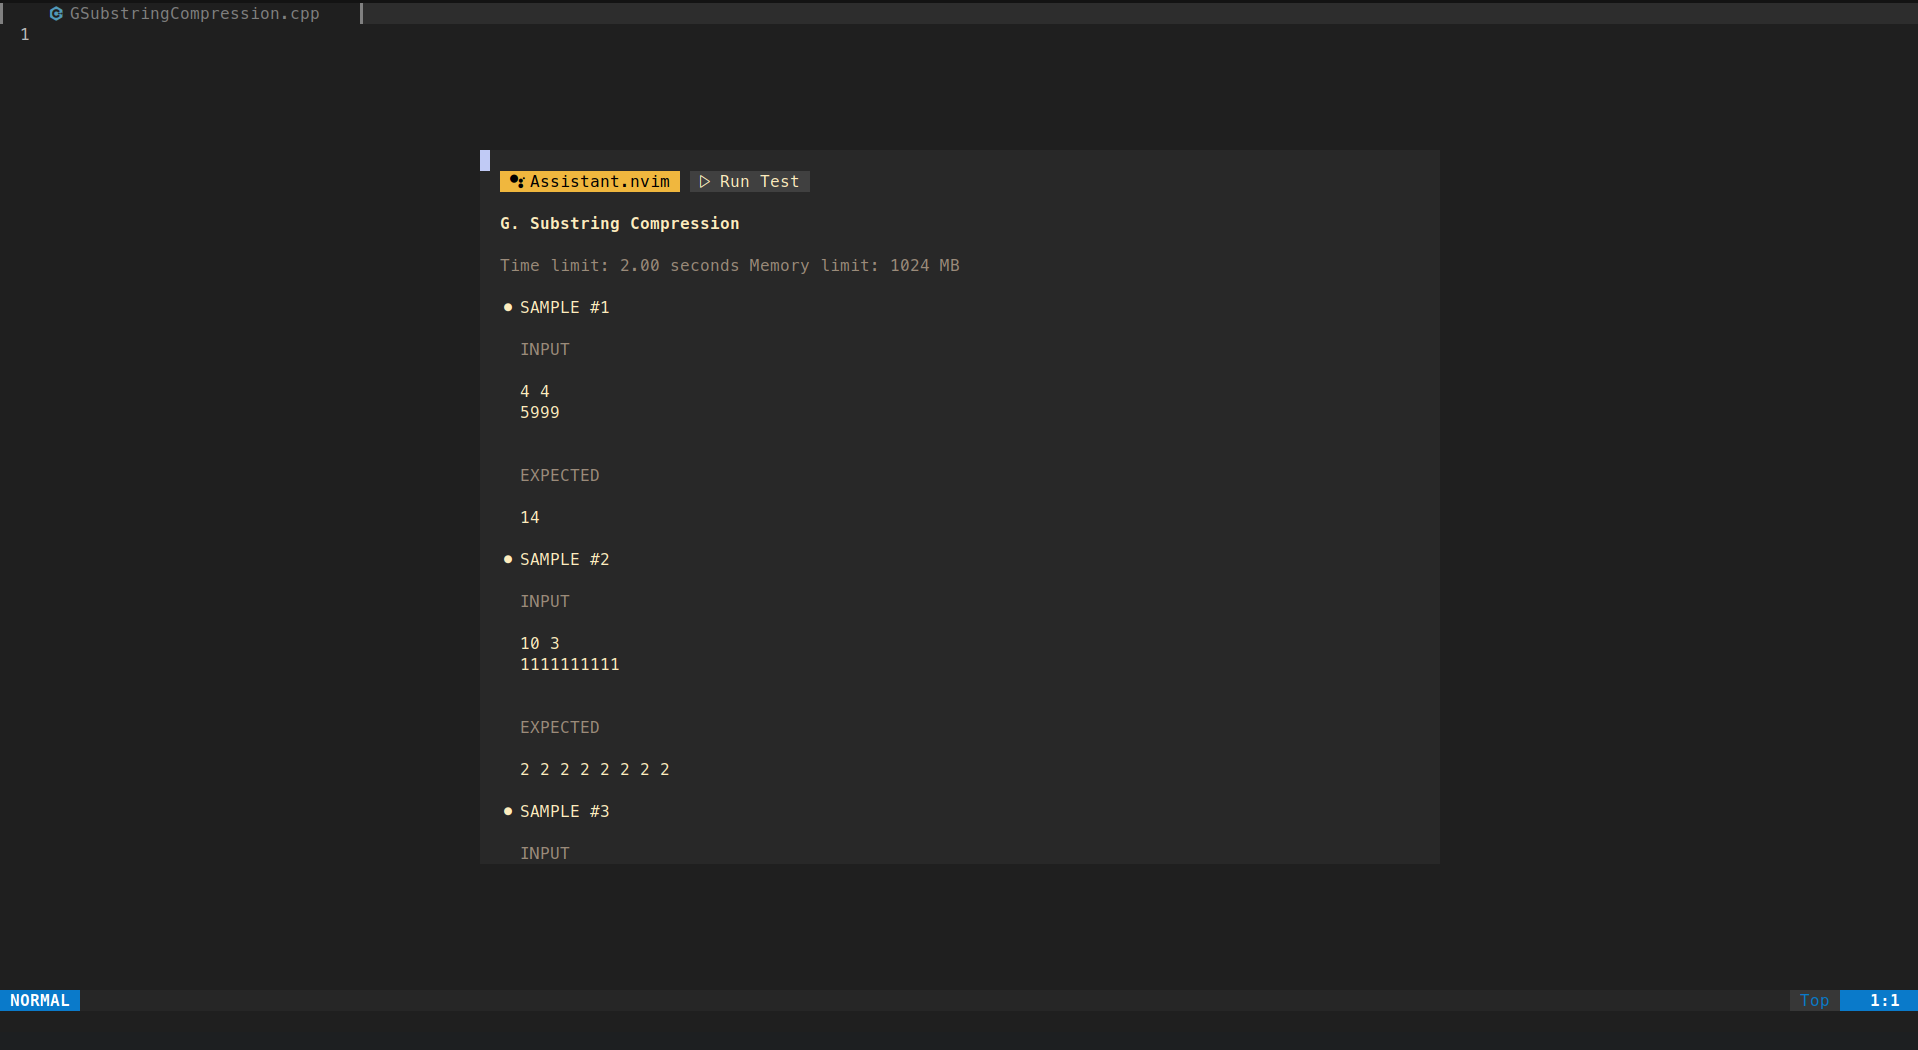
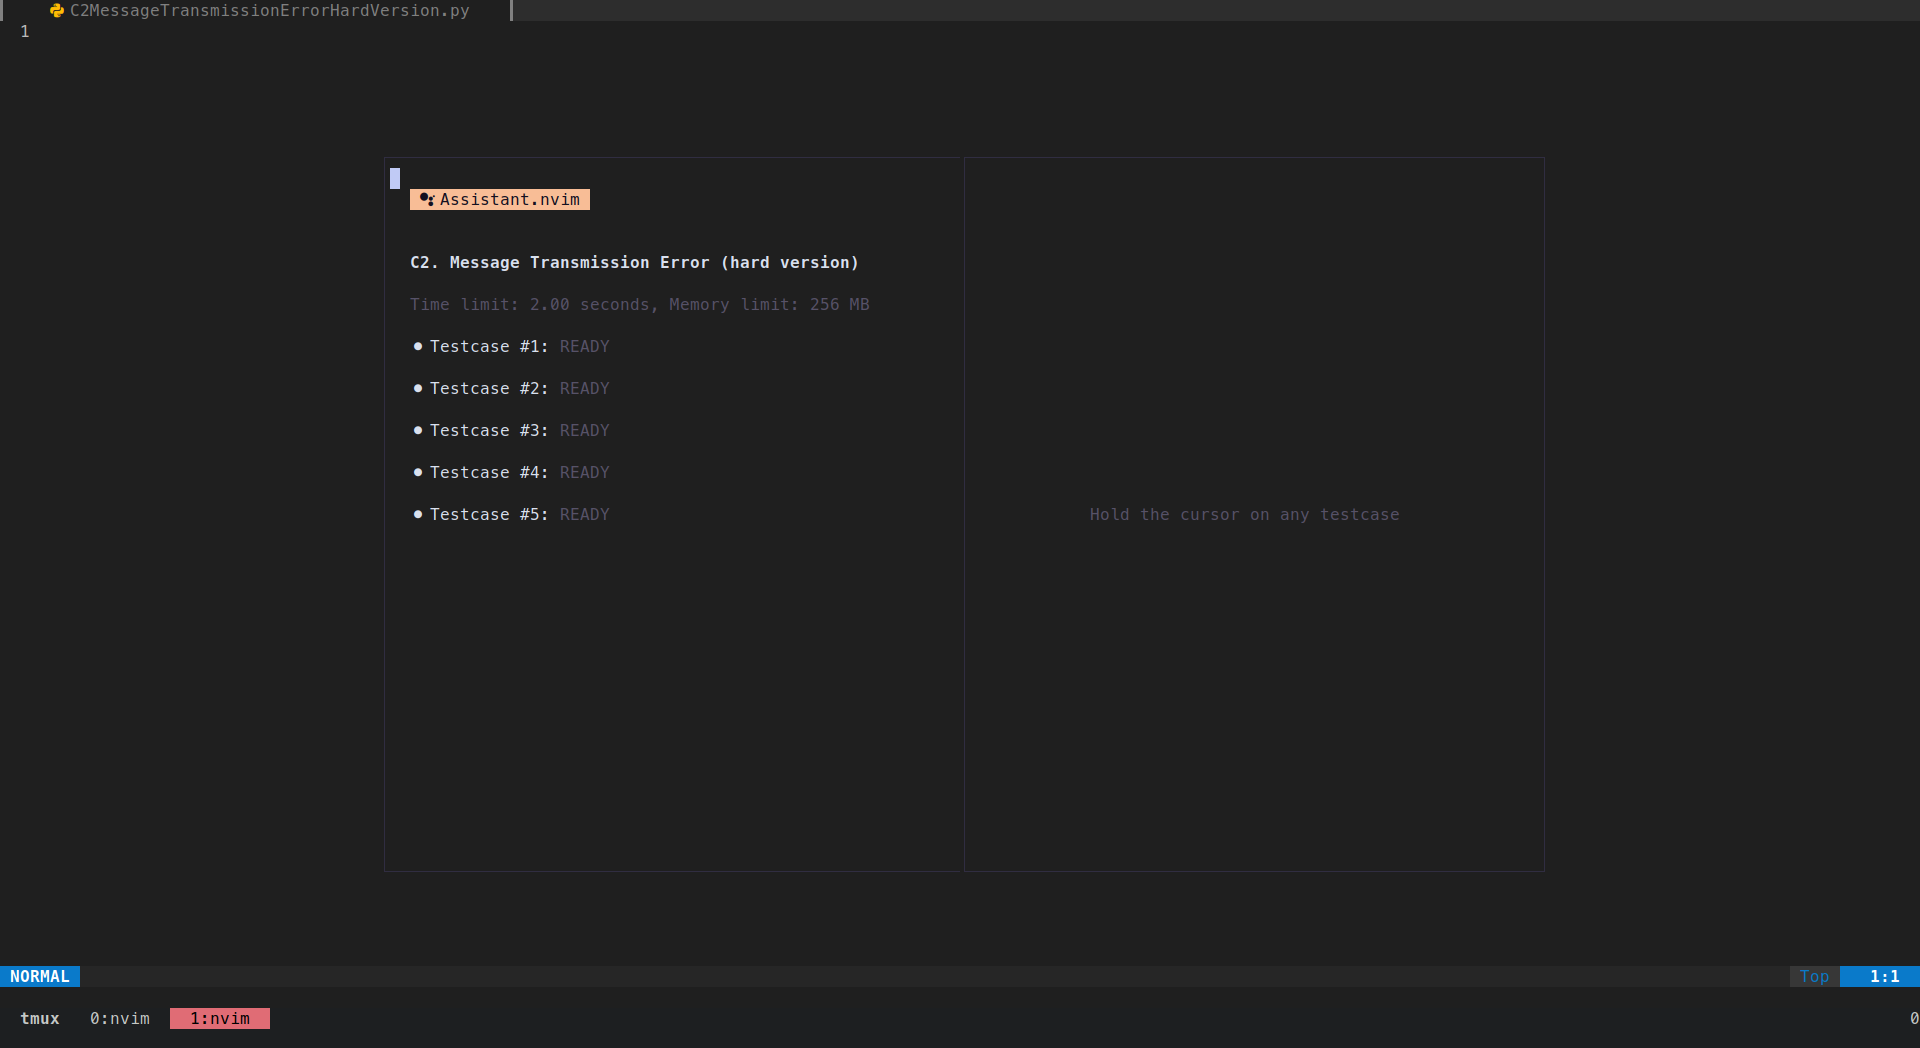
feat!(modern-ui): added efficient split ui
fix #36

diff --git a/README.md b/README.md
@@ -5,10 +5,6 @@ A simple and powerful neovim plugin for testing sample data for competitive prog
 ![DEMO](./assets/screenshot-1.png)
 ![DEMO](./assets/screenshot-2.png)
 ![DEMO](./assets/screenshot-3.png)
-![DEMO](./assets/screenshot-4.png)
-![DEMO](./assets/screenshot-5.png)
-![DEMO](./assets/screenshot-6.png)
-![DEMO](./assets/screenshot-7.png)
 
 <br />
 
@@ -123,15 +119,14 @@ There is only one command to interact with plugin `:AssistantToggle` which toggl
 vim.keymap.set("n", "<leader>a", "<cmd>AssistantToggle<cr>", { desc = "Assistant window toggle" })
 ```
 
-| Key     | Operation                                             |
-| ------- | ----------------------------------------------------- |
-| `Tab`   | Move between tabs in cyclic manner                    |
-| `Enter` | Toggle testcase details on which the cursor is holded |
-| `Esc`   | Close current window                                  |
-| `q`     | Close current window                                  |
-| `r`     | Run testcase on which the cursor is holded            |
-| `R`     | Run all available testcases                           |
-| `c`     | Create an empty testcase                              |
-| `d`     | Delete testcase on which the cursor is holded         |
-| `i`     | Open prompt window for updating input                 |
-| `e`     | Open prompt window for updating expected output       |
+| Key   | Operation                                       |
+| ----- | ----------------------------------------------- |
+| `Tab` | Move between splits                             |
+| `Esc` | Close current window                            |
+| `q`   | Close current window                            |
+| `r`   | Run testcase on which the cursor is holded      |
+| `R`   | Run all available testcases                     |
+| `c`   | Create an empty testcase                        |
+| `d`   | Delete testcase on which the cursor is holded   |
+| `i`   | Open prompt window for updating input           |
+| `e`   | Open prompt window for updating expected output |
